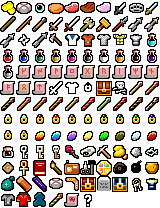
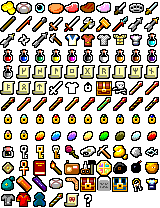
Items, plants and buffs read apart on the panel
- Potions: hand-picked liquid tones so every colour stays distinct after
  the panel's colour correction (worst pair dE 8.6 -> 28): golden is
  yellow, not amber's orange; bistre brown, not black; crimson shaded.
- Hue guard (near_hue): coloured pixels no longer snap across hue
  families. Scrolls are cream parchment with dark runes, not pink.
- Ring of agate: grey dark tone, apart from quartz (dE 13.8 -> 26).
- plants.png gets a generator; PD's shadow becomes a solid black edge so
  plants separate from floor and grass; fold16 keeps the yellow hearts.
- Buffs: Hunger is orange again, apart from Starving's red (dE 12 -> 40);
  the 7x7 strip folds to 16 colours by panel error (fold16).

Claude-Session: https://claude.ai/code/session_01K5kUdBQ9AshjcB3ev2evJa

diff --git a/watch/tools/convert_art.py b/watch/tools/convert_art.py
@@ -18,7 +18,18 @@ _cache = {}
 def near(c):
     return min(PAL, key=lambda p: 2 * (p[0] - c[0]) ** 2 + 4 * (p[1] - c[1]) ** 2 + 3 * (p[2] - c[2]) ** 2)
 
-def pebbleize(img, levels, alpha_cut=100, keep_gray=False):
+def _hue(c):
+    h, _, s = colorsys.rgb_to_hls(*(v / 255 for v in c)); return h * 360, s
+_PAL_HUE = {p: _hue(p)[0] for p in PAL}
+def near_hue(c, lim=35):
+    """0.60: near() without leaving the colour's hue family: a coloured pixel snaps to a grey or to a Pebble colour
+    within `lim` degrees of its hue. Plain near() turned tan and parchment pink (scrolls, leather, the backpack icon)."""
+    h0, s0 = _hue(c)
+    if s0 < 0.12: return near(c)
+    return min((p for p in PAL if p[0] == p[1] == p[2] or min(abs(_PAL_HUE[p] - h0), 360 - abs(_PAL_HUE[p] - h0)) <= lim),
+               key=lambda p: 2 * (p[0] - c[0]) ** 2 + 4 * (p[1] - c[1]) ** 2 + 3 * (p[2] - c[2]) ** 2)
+
+def pebbleize(img, levels, alpha_cut=100, keep_gray=False, hue_guard=False):
     lo, hi = levels
     img = img.convert("RGBA")
     px = img.load()
@@ -31,7 +42,8 @@ def pebbleize(img, levels, alpha_cut=100, keep_gray=False):
             if a == 254:                                   # already snapped by the caller
                 px[x, y] = (r, g, b, 255)
                 continue
-            key = (r, g, b, lo, hi, keep_gray)
+            key = (r, g, b, lo, hi, keep_gray, hue_guard)
+            snap = near_hue if hue_guard else near
             if keep_gray and max(r, g, b) - min(r, g, b) < 24:
                 v = max(0, min(255, (((r + g + b) / 3) - lo) * 255 / (hi - lo)))
                 _cache[key] = (min((0, 85, 170, 255), key=lambda p: abs(p - v)),) * 3
@@ -39,7 +51,7 @@ def pebbleize(img, levels, alpha_cut=100, keep_gray=False):
                 # 0.5.2 "punch" for the dim Pebble screen: lift mid-tones (gamma 0.85), keep near-greys neutral
                 # (tiles only), boost already-colourful pixels' saturation 1.3x
                 if levels == SPRITES:                      # UI art: unchanged mapping
-                    _cache[key] = near(tuple(max(0, min(255, (v - lo) * 255 / (hi - lo))) for v in (r, g, b)))
+                    _cache[key] = snap(tuple(max(0, min(255, (v - lo) * 255 / (hi - lo))) for v in (r, g, b)))
                     px[x, y] = _cache[key] + (255,)
                     continue
                 c = [max(0.0, min(1.0, (v - lo) / (hi - lo))) ** (0.85 if levels == TILES else 1.0) for v in (r, g, b)]
@@ -49,7 +61,7 @@ def pebbleize(img, levels, alpha_cut=100, keep_gray=False):
                 else:
                     h, l, sat = colorsys.rgb_to_hls(*c)
                     if sat > 0.3: sat = min(1.0, sat * 1.3)
-                    _cache[key] = near(tuple(v * 255 for v in colorsys.hls_to_rgb(h, l, sat)))
+                    _cache[key] = snap(tuple(v * 255 for v in colorsys.hls_to_rgb(h, l, sat)))
             px[x, y] = _cache[key] + (255,)
     return img
 
@@ -122,6 +134,50 @@ def max16(img):
             if a and (r, g, b) in remap: px[x, y] = remap[(r, g, b)] + (255,)
     return img
 
+# 0.60: what each Pebble colour looks like on the panel (the SDK's screenshot colour correction), in PAL order
+PANEL = dict(zip(PAL, [((v >> 16) & 255, (v >> 8) & 255, v & 255) for v in (
+    0x000000, 0x001E41, 0x004387, 0x0068CA, 0x2B4A2C, 0x27514F, 0x16638D, 0x007DCE, 0x5E9860, 0x5C9B72, 0x57A5A2,
+    0x4CB4DB, 0x8EE391, 0x8EE69E, 0x8AEBC0, 0x84F5F1, 0x4A161B, 0x482748, 0x40488A, 0x2F6BCC, 0x564E36, 0x545454,
+    0x4F6790, 0x4180D0, 0x759A64, 0x759D76, 0x71A6A4, 0x69B5DD, 0x9EE594, 0x9DE7A0, 0x9BECC2, 0x95F6F2, 0x99353F,
+    0x983E5A, 0x955694, 0x8F74D2, 0x9D5B4D, 0x9D6064, 0x9A7099, 0x9587D5, 0xAFA072, 0xAEA382, 0xABABAB, 0xA7BAE2,
+    0xC9E89D, 0xC9EAA7, 0xC7F0C8, 0xC3F9F7, 0xE35462, 0xE25874, 0xE16AA3, 0xDE83DC, 0xE66E6B, 0xE6727C, 0xE37FA7,
+    0xE194DF, 0xF1AA86, 0xF1AD93, 0xEFB5B8, 0xECC3EB, 0xFFEEAB, 0xFFF1B5, 0xFFF6D3, 0xFFFFFF)]))
+def panel_lab(c):
+    """CIE L*a*b* of a Pebble colour as the panel shows it."""
+    def lin(u): u /= 255; return ((u + 0.055) / 1.055) ** 2.4 if u > 0.04045 else u / 12.92
+    r, g, b = (lin(v) for v in PANEL[c])
+    f = lambda t: t ** (1 / 3) if t > 0.008856 else 7.787 * t + 16 / 116
+    X, Y, Z = (0.4124 * r + 0.3576 * g + 0.1805 * b) / 0.9505, 0.2126 * r + 0.7152 * g + 0.0722 * b, (0.0193 * r + 0.1192 * g + 0.9505 * b) / 1.089
+    return 116 * f(Y) - 16, 500 * (f(X) - f(Y)), 200 * (f(Y) - f(Z))
+def fold16(img):
+    """0.60: max16() as the panel sees it. Each step drops the colour whose loss costs least: for every pixel that would
+    move, (how far apart the two colours look on the panel)^2, so many slightly-off pixels beat a few badly-off ones.
+    max16 simply dropped the rarest colour into its RGB-nearest: firebloom lost its yellow heart, sungrass its buds, the
+    fire buff its orange flame, levitation its cyan."""
+    px = img.load(); counts = {}
+    for y in range(img.height):
+        for x in range(img.width):
+            if px[x, y][3]: counts[px[x, y][:3]] = counts.get(px[x, y][:3], 0) + 1
+    lab = {c: panel_lab(c) for c in counts}
+    d = lambda a, b: sum((u - v) ** 2 for u, v in zip(lab[a], lab[b])) ** 0.5
+    orig, remap = dict(counts), {}
+    while len(counts) > 15:                        # 15 + transparent
+        best = None
+        for c in sorted(counts):
+            to = min((o for o in sorted(counts) if o != c), key=lambda o: d(c, o))
+            cost = sum(orig[m] * d(m, to) ** 2 for m in [k for k, v in remap.items() if v == c] + [c])
+            if best is None or cost < best[0]: best = (cost, c, to)
+        _, c, to = best
+        counts[to] += counts.pop(c)
+        for k, v in list(remap.items()):
+            if v == c: remap[k] = to
+        remap[c] = to
+    for y in range(img.height):
+        for x in range(img.width):
+            r, g, b, a = px[x, y]
+            if a and (r, g, b) in remap: px[x, y] = remap[(r, g, b)] + (255,)
+    return img
+
 # 0.6: HeroSprite.tiers(): one 15 px row per armour tier (0 none .. 5 plate); the game loads only the worn one
 for cls, f in (("warrior", "warrior.png"), ("mage", "mage.png"), ("rogue", "rogue.png"), ("huntress", "ranger.png")):   # 0.13: every class
     for t in range(7):                              # 0.12: + 6, the class armour
@@ -162,7 +218,39 @@ sheet = Image.new("RGBA", (160, 16 * ((len(ITEM_IDX) + 9) // 10)))
 for i, idx in enumerate(ITEM_IDX):
     x, y = (idx % 8) * 16, (idx // 8) * 16
     sheet.paste(items.crop((x, y, x + 16, y + 16)), ((i % 10) * 16, (i // 10) * 16))
-total += save(pebbleize(sheet, CHARS), "items_02.png")
+# 0.60: an unknown potion is known only by its colour, so each liquid's (light, dark) tones are picked by hand to stay
+# apart on the panel (worst pair, CIE dE as the panel shows it: 9 -> 28). The plain snap made golden and amber the same
+# orange, gave crimson no shade, and sank bistre to black like charcoal. A ring is known by its gem: agate's dark tone
+# was quartz's, so agate is grey.
+GEM_FIX = {56: {(0, 196, 232): (0, 255, 255), (0, 131, 155): (0, 170, 170)},     # turquoise (as before)
+           57: {(255, 0, 38): (255, 0, 0), (210, 0, 25): (170, 0, 0)},           # crimson: a dark shade again
+           58: {(0, 62, 255): (0, 85, 255), (0, 41, 184): (0, 0, 170)},          # azure (as before)
+           59: {(0, 180, 62): (0, 170, 85), (0, 116, 38): (0, 85, 0)},           # jade (as before)
+           60: {(217, 172, 0): (255, 255, 0), (149, 118, 0): (170, 170, 0)},     # golden: yellow, not amber's orange
+           61: {(238, 0, 156): (255, 0, 255), (165, 0, 107): (170, 0, 85)},      # magenta: away from crimson
+           62: {(62, 62, 62): (85, 85, 85), (19, 19, 19): (0, 0, 0)},            # charcoal (as before)
+           63: {(246, 236, 218): (255, 255, 255), (183, 175, 162): (170, 170, 170)},   # ivory (as before)
+           64: {(255, 140, 9): (255, 170, 0), (202, 103, 5): (170, 85, 0)},      # amber: orange over brown
+           65: {(107, 54, 6): (170, 85, 0), (54, 24, 3): (85, 0, 0)},            # bistre: brown, not black
+           66: {(122, 0, 184): (85, 0, 170), (77, 0, 118): (85, 0, 85)},         # indigo (as before)
+           67: {(143, 154, 154): (170, 170, 170), (70, 76, 76): (85, 85, 85)},   # silver (as before)
+           75: {(138, 102, 102): (85, 85, 85)}}                                  # agate's dark tone
+sp = sheet.load()
+for i, idx in enumerate(ITEM_IDX):
+    for y in range(16):
+        for x in range(16):
+            p = sp[(i % 10) * 16 + x, (i // 10) * 16 + y]
+            if p[3] >= 100 and p[:3] in GEM_FIX.get(idx, {}): sp[(i % 10) * 16 + x, (i // 10) * 16 + y] = GEM_FIX[idx][p[:3]] + (254,)
+total += save(pebbleize(sheet, CHARS, hue_guard=True), "items_02.png")   # 0.60: no more pink parchment and leather
+# 0.60: PlantSprite frames (plants.png, 8 x 16 px), drawn on grass and floor; 16 colours (4 bpp)
+# 0.60: PD rings each plant with a 30% black shadow that the alpha cut dropped, so plants melted into grass; it is
+# now a solid black edge like the items' (the panel has no translucency). The hue guard keeps earthroot brown, not
+# grey, and fold16 keeps firebloom's yellow heart and sungrass's yellow buds (max16 had folded them into orange).
+plants = crop("plants.png", (0, 0, 128, 16)).convert("RGBA"); pp = plants.load()
+for y in range(16):
+    for x in range(128):
+        if pp[x, y] == (0, 0, 0, 77): pp[x, y] = (0, 0, 0, 254)
+total += save(fold16(pebbleize(plants, CHARS, hue_guard=True)), "plants.png")
 # PD toolbar row: wait(0) search(20) info(40) backpack(60) quickslot(83..)
 total += save(pebbleize(crop("toolbar.png", (0, 7, 106, 32)), SPRITES, keep_gray=True), "toolbar.png")
 print(f"Total with 0.2 sheets: ~{total / 1024:.1f} KB")
@@ -256,7 +344,15 @@ bf = Image.open(os.path.join(SRC, "buffs.png")).convert("RGBA")
 strip = Image.new("RGBA", (7 * 30, 7))                 # 0.6: + fire, paralysis, levitation, mind vision, invisible, frost, blind, roots, slow, barkskin, immunity
 for i, idx in enumerate((3, 5, 6, 23, 26, 2, 4, 1, 0, 12, 15, 16, 11, 7, 24, 25, 21, 20, 28, 8, 29, 14, 19, 9, 10, 22, 17, 18, 13, 30)):
     strip.paste(bf.crop(((idx % 18) * 7, (idx // 18) * 7, (idx % 18) * 7 + 7, (idx // 18) * 7 + 7)), (i * 7, 0))
-total += save(max16(pebbleize(strip, SPRITES)), "buffs.png")   # 0.20: 4 bpp
+def hunger_orange(strip, w):
+    """0.60: Hunger's orange (242,115,24) snapped to (255,85,0), which on the panel is Starving's red (dE 12): it is
+    now (255,170,0) (dE 40), so the warning that you are starving reads apart from plain hunger."""
+    sp = strip.load()
+    for y in range(strip.height):
+        for x in range(w, 2 * w):                   # cell 1: BuffIndicator.HUNGER
+            if sp[x, y][:3] in ((242, 115, 24), (242, 160, 102)): sp[x, y] = (255, 170, 0, 254)
+    return strip
+total += save(fold16(pebbleize(hunger_orange(strip, 7), SPRITES)), "buffs.png")   # 0.20: 4 bpp (0.60: fold16)
 print(f"Total with 0.5 sheets: ~{total / 1024:.1f} KB")
 
 # ---- 0.5.1: UI pass ----
@@ -274,7 +370,7 @@ lb = Image.open(os.path.join(SRC, "large_buffs.png")).convert("RGBA")
 strip = Image.new("RGBA", (16 * 30, 16))                # WndHero buffs, same order as buffs.png
 for i, idx in enumerate((3, 5, 6, 23, 26, 2, 4, 1, 0, 12, 15, 16, 11, 7, 24, 25, 21, 20, 28, 8, 29, 14, 19, 9, 10, 22, 17, 18, 13, 30)):
     strip.paste(lb.crop(((idx % 16) * 16, (idx // 16) * 16, (idx % 16) * 16 + 16, (idx // 16) * 16 + 16)), (i * 16, 0))
-total += save(pebbleize(strip, SPRITES), "buffs_large.png")
+total += save(pebbleize(hunger_orange(strip, 16), SPRITES), "buffs_large.png")
 total += save(pebbleize(crop("banners.png", (0, 105, 128, 140)), SPRITES), "banner_gameover.png")
 total += save(pebbleize(crop("banners.png", (0, 70, 128, 105)), SPRITES), "banner_boss.png")   # 0.17: GameScene.bossSlain
 print(f"Total with 0.5.1 sheets: ~{total / 1024:.1f} KB")
